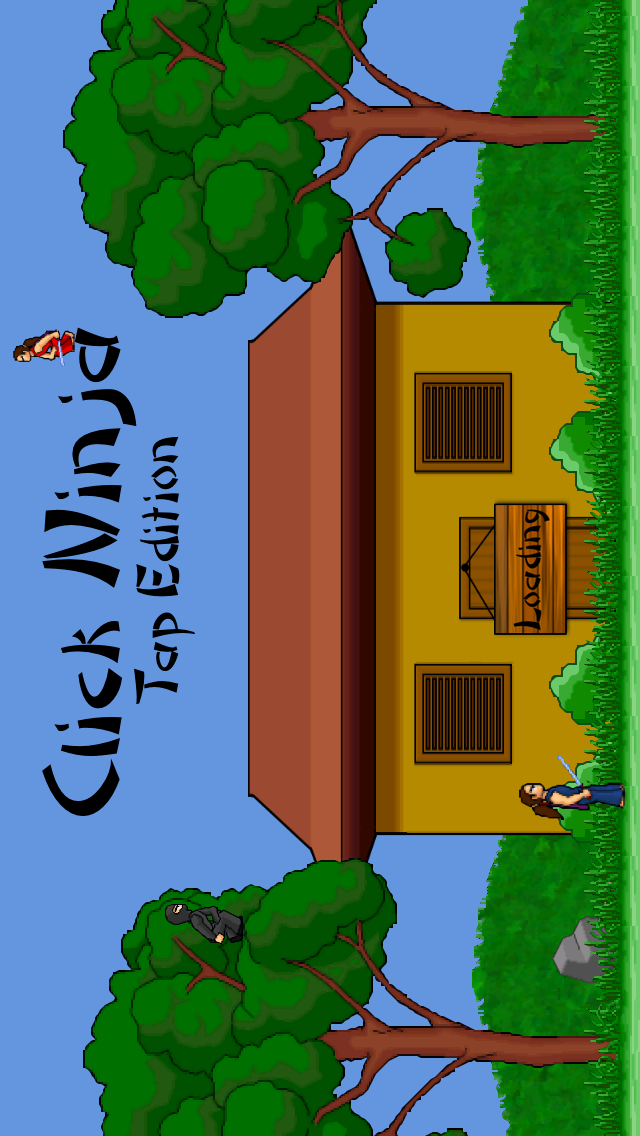
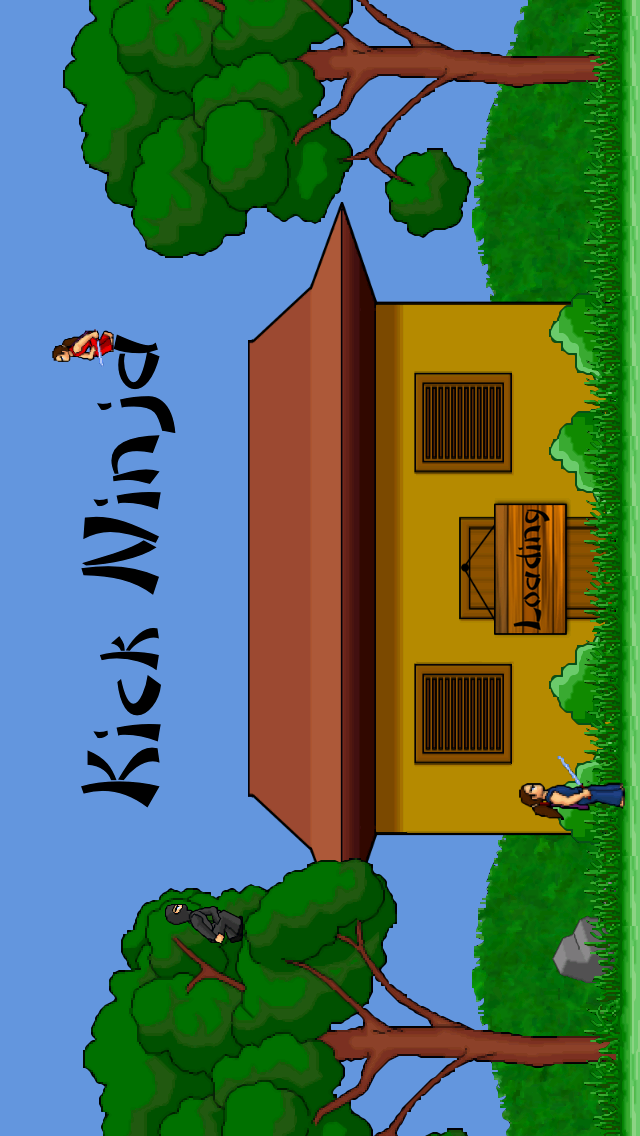
Changed name to Kick Ninja. Version 1.0

Changed region(s): [[0.0, 0.0, 0.9375, 0.7394]]

diff --git a/Click Ninja/Menu.m b/Click Ninja/Menu.m
@@ -41,15 +41,15 @@
         
         CGSize size = [[CCDirector sharedDirector] winSize];
         
-        CCLabelTTF *titleLabel = [[CCLabelTTF alloc] initWithString:@"Click Ninja" fontName:@"DomoAregato" fontSize:56.0f dimensions:CGSizeMake(400, 70) hAlignment:kCCTextAlignmentCenter];
-        titleLabel.position = ccp(size.width/2, 270);
+        CCLabelTTF *titleLabel = [[CCLabelTTF alloc] initWithString:@"Kick Ninja" fontName:@"DomoAregato" fontSize:56.0f dimensions:CGSizeMake(400, 70) hAlignment:kCCTextAlignmentCenter];
+        titleLabel.position = ccp(size.width/2, 250);
         titleLabel.color = ccBLACK;
         [self addChild:titleLabel z:1];
         
-        CCLabelTTF *subTitleLabel = [[CCLabelTTF alloc] initWithString:@"Tap Edition" fontName:@"DomoAregato" fontSize:30.0f dimensions:CGSizeMake(400, 70) hAlignment:kCCTextAlignmentCenter];
+        /*CCLabelTTF *subTitleLabel = [[CCLabelTTF alloc] initWithString:@"Tap Edition" fontName:@"DomoAregato" fontSize:30.0f dimensions:CGSizeMake(400, 70) hAlignment:kCCTextAlignmentCenter];
         subTitleLabel.position = ccp(size.width/2, 220);
         subTitleLabel.color = ccBLACK;
-        [self addChild:subTitleLabel z:1];
+        [self addChild:subTitleLabel z:1];*/
         
         CCSprite *house = [[CCSprite alloc] initWithSpriteFrameName:@"House.png"];
         house.position = ccp(size.width/2, 100);
@@ -86,7 +86,7 @@
         }
         
         CCSprite *tree = [[CCSprite alloc] initWithSpriteFrameName:@"Tree3.png"];
-        tree.position = ccp(size.width/2+220, 130);
+        tree.position = ccp(size.width/2+250, 130);
         [self addChild:tree z:4];
         
         CCSprite *tree2 = [[CCSprite alloc] initWithSpriteFrameName:@"Tree3.png"];
@@ -117,7 +117,7 @@
         
         
         CCSprite *crouchNinja = [[CCSprite alloc] initWithSpriteFrameName:@"CrouchNinja_1.png"];
-        crouchNinja.position = ccp(size.width/2+110, 298);
+        crouchNinja.position = ccp(size.width/2+110, 278);
         [crouchNinja setScale:0.6];
         [self addChild:crouchNinja];
         

diff --git a/Click Ninja/GameLayer.m b/Click Ninja/GameLayer.m
@@ -108,7 +108,6 @@
         
         int totalTaps = [[NSUserDefaults standardUserDefaults] integerForKey:@"taps"];
         totalTaps+=score;
-        NSLog(@"Total Taps %i",totalTaps);
         [[NSUserDefaults standardUserDefaults] setInteger:totalTaps forKey:@"taps"];
         [[GameCenter sharedGameCenter] reportAchievementIdentifier:@"1000taps" percentComplete:100*(totalTaps/1000.0f)];
         [[GameCenter sharedGameCenter] reportAchievementIdentifier:@"10000taps" percentComplete:100*(totalTaps/10000.0f)];
@@ -118,7 +117,7 @@
         
         int totalGames = [[NSUserDefaults standardUserDefaults] integerForKey:@"games"];
         totalGames++;
-        [[NSUserDefaults standardUserDefaults] setInteger:totalTaps forKey:@"games"];
+        [[NSUserDefaults standardUserDefaults] setInteger:totalGames forKey:@"games"];
         [[GameCenter sharedGameCenter] reportAchievementIdentifier:@"10games" percentComplete:100*(totalGames/10.0f)];
         [[GameCenter sharedGameCenter] reportAchievementIdentifier:@"50games" percentComplete:100*(totalGames/50.0f)];
         [[GameCenter sharedGameCenter] reportAchievementIdentifier:@"100games" percentComplete:100*(totalGames/100.0f)];

diff --git a/Click Ninja/GameCenter.m b/Click Ninja/GameCenter.m
@@ -114,7 +114,6 @@ GameCenter *sharedInstance = nil;
 
     if(achievement.completed) return;
 
-    NSLog(@"Percent %f",percent);
     achievement.percentComplete = percent;
     achievement.showsCompletionBanner=YES;
     [_achievementsDictionary setObject:achievement forKey:achievement.identifier];
@@ -168,7 +167,7 @@ GameCenter *sharedInstance = nil;
     int challenges = [[NSUserDefaults standardUserDefaults] integerForKey:@"challenges"];
     challenges++;
     [[NSUserDefaults standardUserDefaults] setInteger:challenges forKey:@"challenges"];
-    NSLog(@"Challenges %i Percent %f",challenges, 100*(challenges/5.0f));
+
     [self reportAchievementIdentifier:@"fivechallenge" percentComplete:100*(challenges/5.0f)];
 }
 

diff --git a/Click Ninja/AppDelegate.m b/Click Ninja/AppDelegate.m
@@ -96,17 +96,11 @@
 	// and add the scene to the stack. The director will run it when it automatically when the view is displayed.
     
 
-#if TARGET_IPHONE_SIMULATOR
-    [[GameCenter sharedGameCenter] authenticate];
-
-#endif
     
     [Flurry startSession:flurryAPI];
     [[GameCenter sharedGameCenter] authenticate];
 
     [[NSUserDefaults standardUserDefaults] setBool:YES forKey:@"starting"];
-    [[NSUserDefaults standardUserDefaults] setInteger:0 forKey:@"games"];
-    [[NSUserDefaults standardUserDefaults] setInteger:10000 forKey:@"taps"];
 
     [glView setMultipleTouchEnabled:NO];
 	[director_ pushScene: [Menu scene]];
